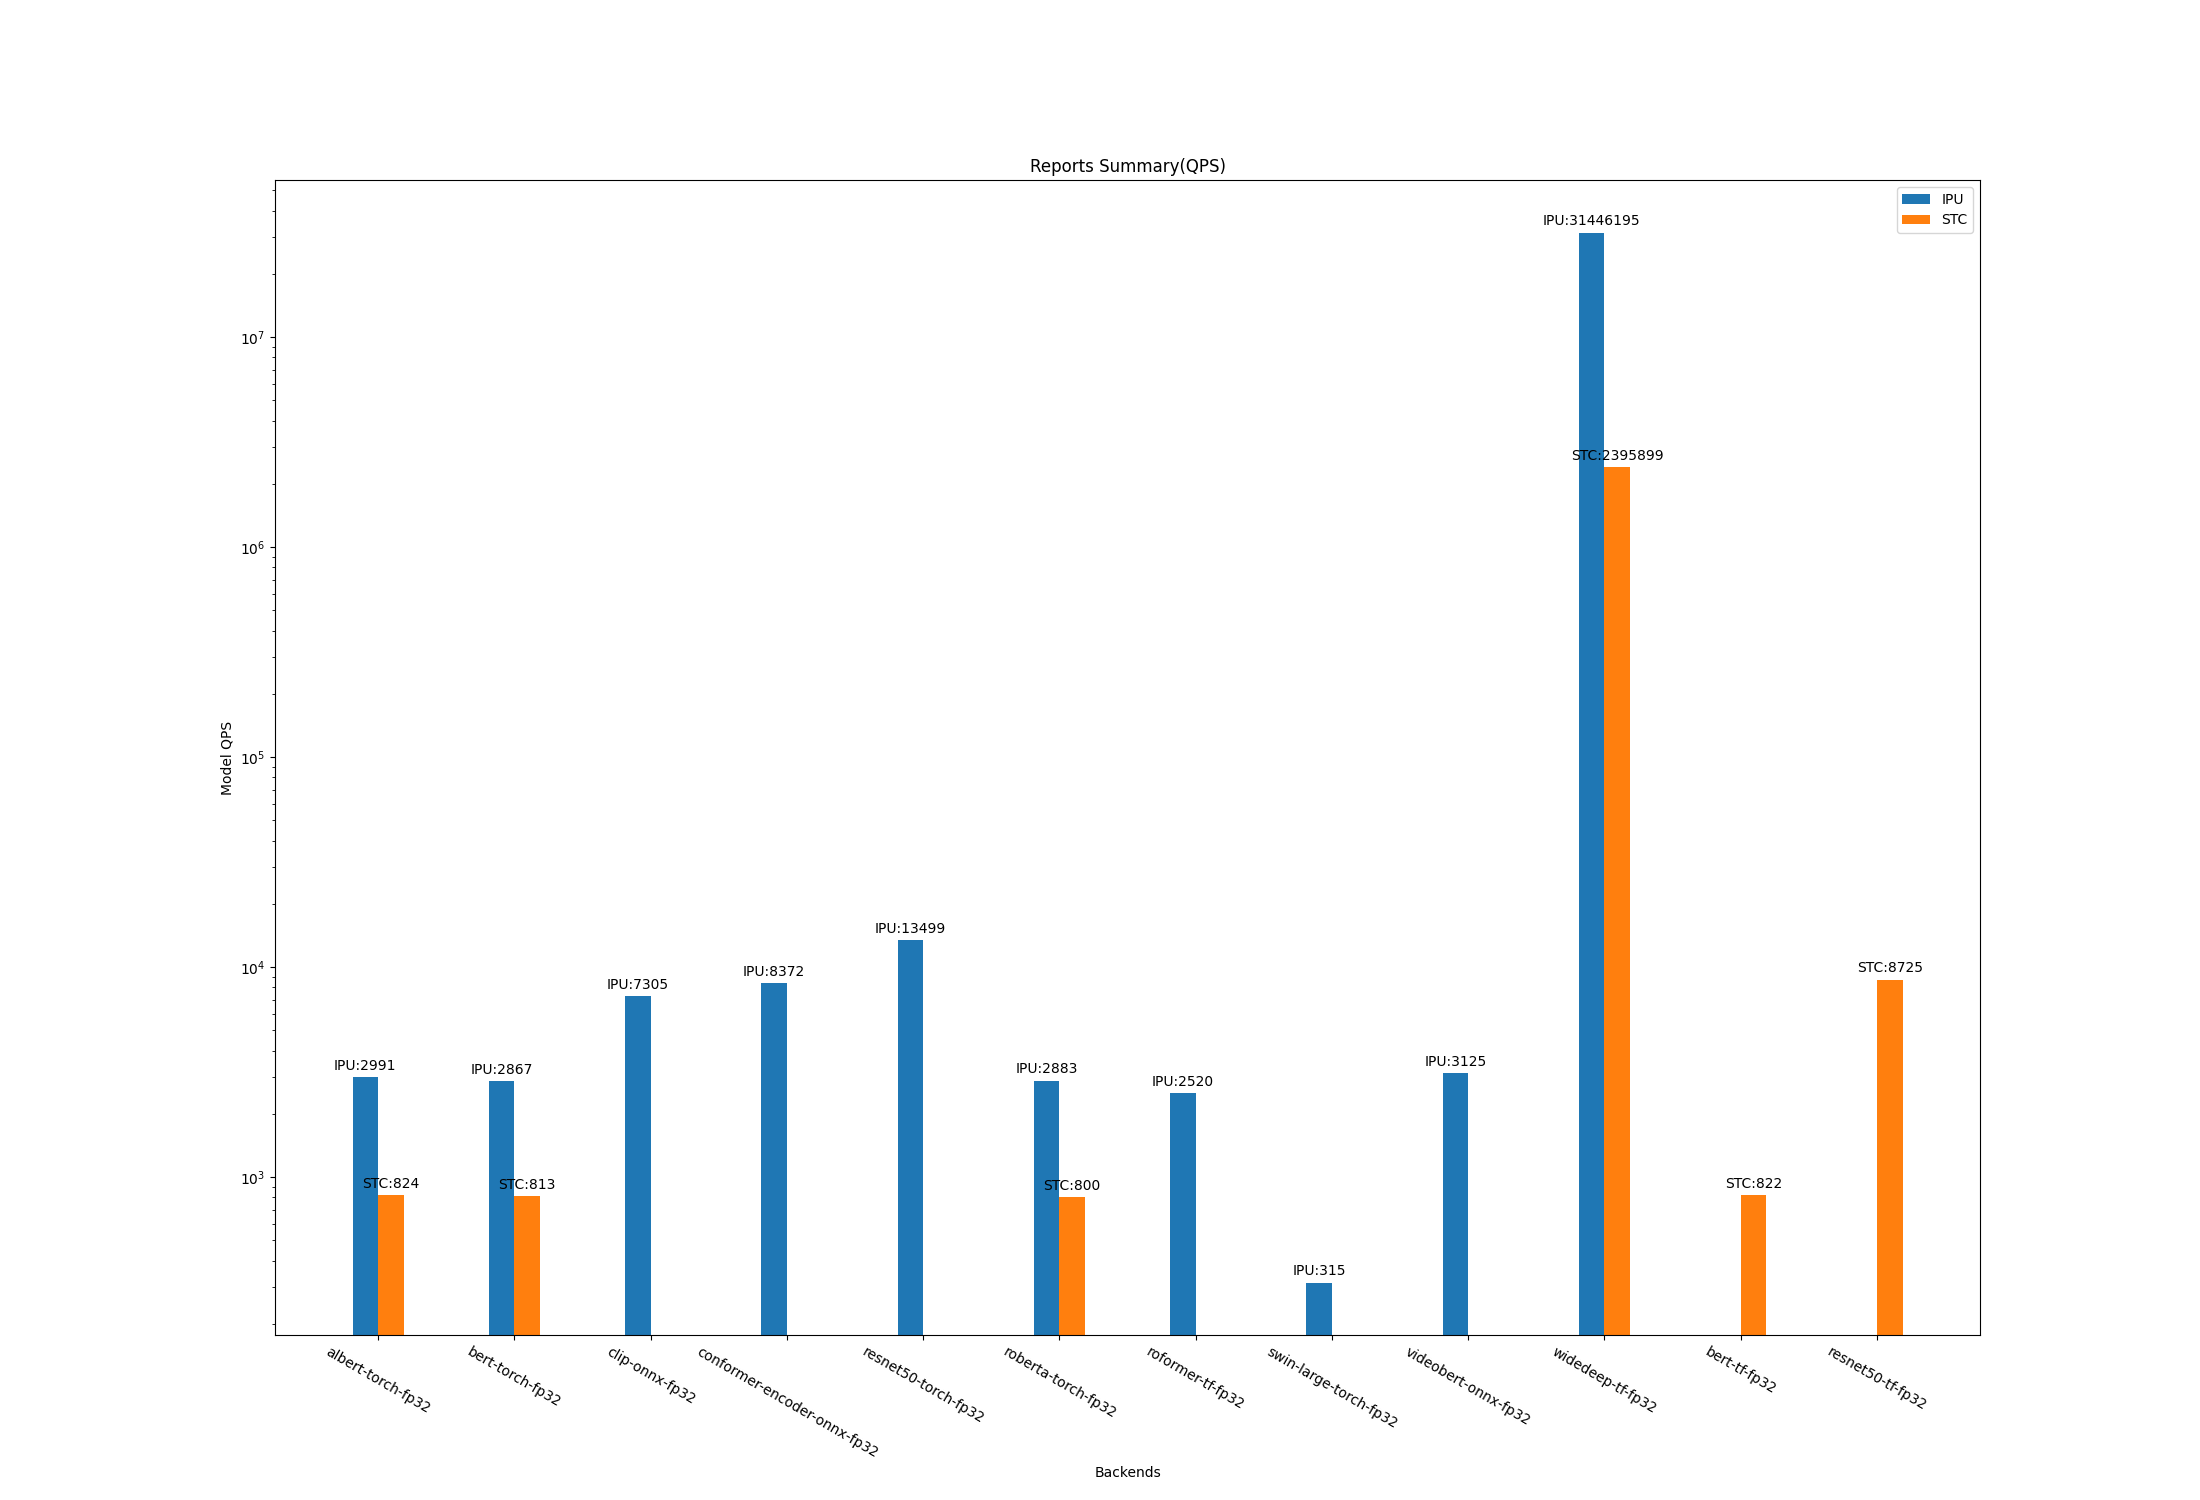
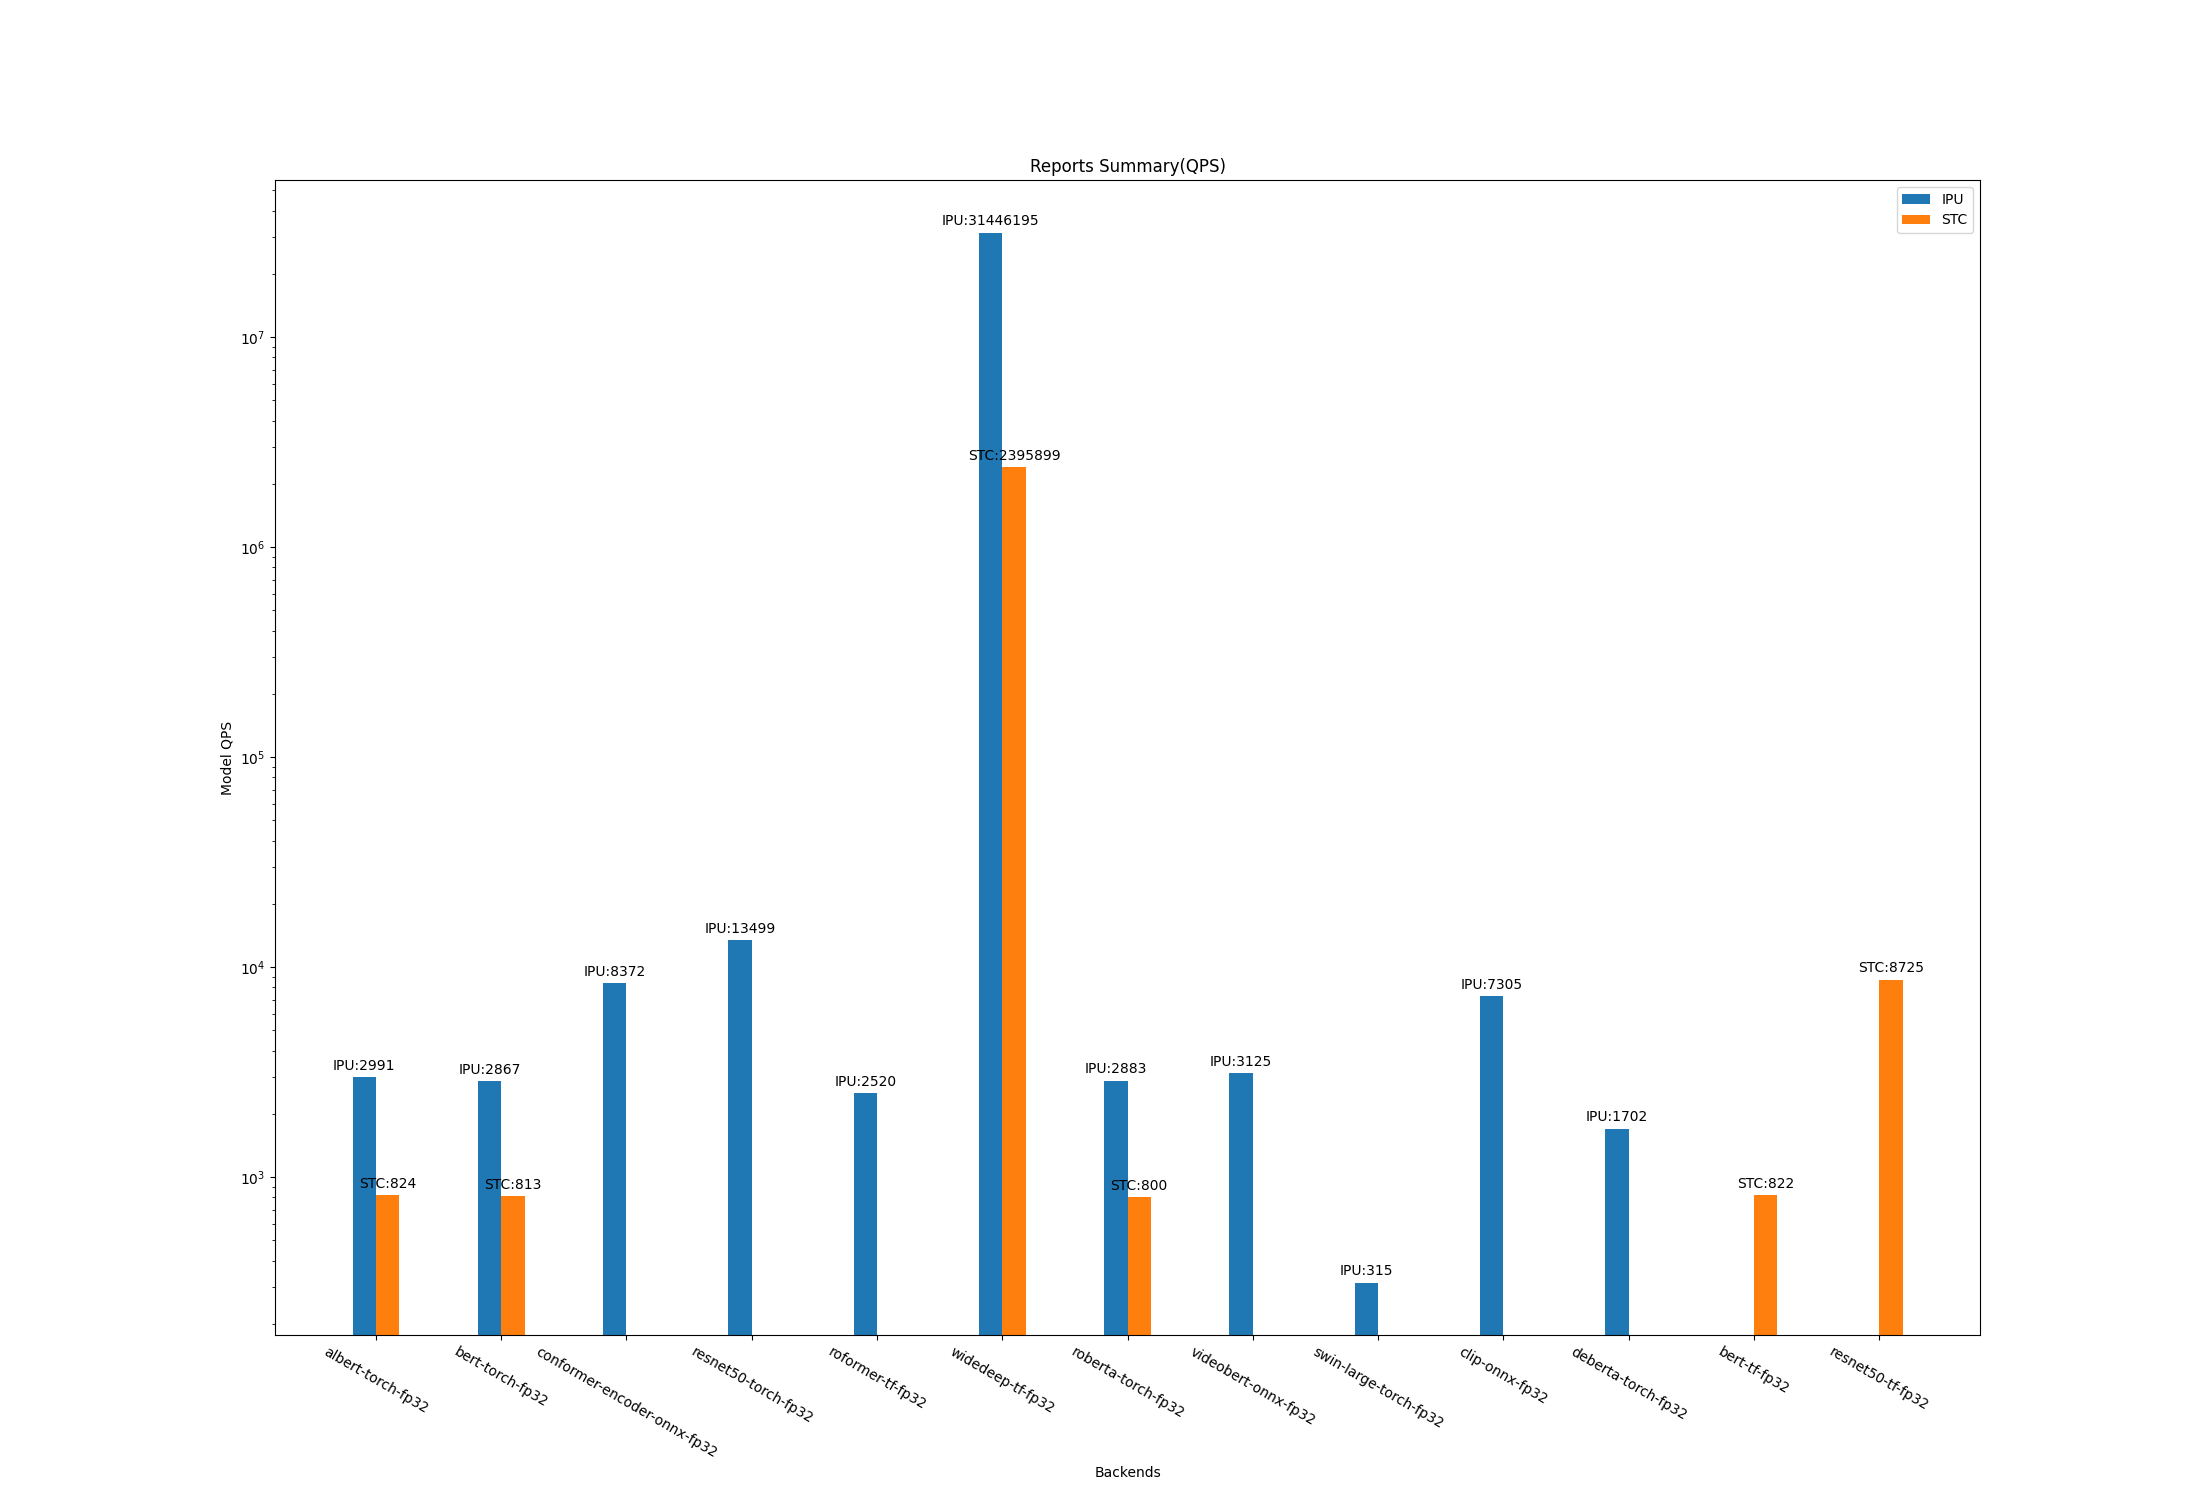
[GraphCore]  IPU support pack deberta
* [new] 1. ipu support pack deberta

* [update] 1. update reports_summary.png

* [update] 1. fix order in ipu's readme

* [update] 1. use custom pass to for pack deberta model conversion

* [update] 1. update results

* [revert] 1. revert change on perf_engine

* [fix] 1. fix deberta's data percentage

* [fix] 1. fix ipu results

diff --git a/byte_mlperf/backends/IPU/passes/deberta_pack.py b/byte_mlperf/backends/IPU/passes/deberta_pack.py
@@ -1,0 +1,181 @@
+# Copyright (c) 2023 Graphcore Ltd. All rights reserved.
+import onnx
+from poprt import Pass
+from poprt.passes import register
+from poprt.passes.onnx_helper import clean_info, get_dtype, topological_sort
+from poprt.passes.pattern_helper import PatternMatcher
+from poprt.passes.shape_inference import infer_shapes
+
+
+@register("deberta_pack")
+class PackedDeberta(Pass):
+    @staticmethod
+    def _find(items, search_func, return_all=False):
+        results = []
+        for i, item in enumerate(items):
+            if search_func(item):
+                results.append((i, item))
+                if not return_all:
+                    break
+        return results if return_all else (-1, None) if not results else results[0]
+
+    def __init__(self):
+        super().__init__()
+
+    def _modify_mask_before_mul_to_input(self, model):
+        pattern = ["s:0->Unsqueeze:Unsqueeze->Cast:Cast->Mul:Mul->e:5"]
+        pattern_matcher = PatternMatcher(pattern)
+        ops = pattern_matcher.next_pattern(model.graph)
+        if ops:
+            Cast = onnx.helper.make_node(
+                "Cast",
+                name="{}_Cast".format(ops["Unsqueeze"].node.name),
+                inputs=[ops["Unsqueeze"].node.input[0]],
+                outputs=["{}_Cast:0".format(ops["Unsqueeze"].node.name)],
+                to=onnx.TensorProto.BOOL,
+            )
+            ops["Unsqueeze"].node.input[0] = Cast.output[0]
+            model.graph.node.insert(ops["Unsqueeze"].index, Cast)
+        return model
+
+    def _modify_attentionmask(self, model):
+        pattern = [
+            "s:0->Reshape:Reshape->Squeeze:Squeeze->Unsqueeze:Unsqueeze->Mul:Mul->Cast:Cast->Not:Not->e:1",
+            "     Reshape:Reshape                                      ->Mul:Mul",
+        ]
+        pattern_matcher = PatternMatcher(pattern)
+        ops = pattern_matcher.next_pattern(model.graph)
+        if ops:
+            input = ops["Reshape"].node.input[0]
+            for node in [
+                ops[key].node
+                for key in ["Reshape", "Squeeze", "Unsqueeze", "Mul", "Cast", "Not"]
+            ]:
+                model.graph.node.remove(node)
+        else:
+            return model
+
+        pattern = [
+            "s:0         ->WhereV2:WhereV2_1->Softmax:Softmax->WhereV2:WhereV2_2->MatMul:MatMul->e:1",
+            "s:2->Add:Add->WhereV2:WhereV2_1",
+        ]
+        pattern_matcher = PatternMatcher(pattern)
+        ops = pattern_matcher.next_pattern(model.graph)
+        AttentionMask, AttentionMaskNot = None, None
+        while ops:
+            if AttentionMask is None:
+                dtype = get_dtype(model.graph, ops["Add"].node.output[0])
+                kwargs = {
+                    "dataType": "FLOAT"
+                    if dtype == onnx.TensorProto.FLOAT
+                    else "FLOAT16"
+                }
+                AttentionMask = onnx.helper.make_node(
+                    "AttentionMask",
+                    name="AttentionMask",
+                    inputs=[input, ops["Add"].node.output[0]],
+                    outputs=["{}_AttentionMask".format(ops["Add"].node.output[0])],
+                    domain="ai.graphcore",
+                    **kwargs,
+                )
+                Cast = onnx.helper.make_node(
+                    "Cast",
+                    name="{}_Cast".format(AttentionMask.name),
+                    inputs=[AttentionMask.output[0]],
+                    outputs=["{}_Cast:0".format(AttentionMask.name)],
+                    to=onnx.TensorProto.BOOL,
+                )
+                Not = onnx.helper.make_node(
+                    "Not",
+                    name="{}_Not".format(Cast.name),
+                    inputs=[Cast.output[0]],
+                    outputs=["{}_Not:0".format(Cast.name)],
+                )
+                AttentionMaskNot = onnx.helper.make_node(
+                    "Cast",
+                    name="{}_Cast".format(Not.name),
+                    inputs=[Not.output[0]],
+                    outputs=["{}_Cast:0".format(Not.name)],
+                    to=onnx.TensorProto.FLOAT16,
+                )
+                model.graph.node.insert(ops["Softmax"].index, AttentionMaskNot)
+                model.graph.node.insert(ops["Softmax"].index, Not)
+                model.graph.node.insert(ops["Softmax"].index, Cast)
+                model.graph.node.insert(ops["Softmax"].index, AttentionMask)
+            Add = onnx.helper.make_node(
+                "Add",
+                name="{}_Add".format(ops["Add"].node.output[0]),
+                inputs=[AttentionMask.output[0], ops["Add"].node.output[0]],
+                outputs=["{}_Add:0".format(ops["Add"].node.output[0])],
+            )
+            ops["Softmax"].node.input[0] = Add.output[0]
+            Mul = onnx.helper.make_node(
+                "Mul",
+                name="{}_Mul".format(ops["Softmax"].node.output[0]),
+                inputs=[AttentionMaskNot.output[0], ops["Softmax"].node.output[0]],
+                outputs=["{}_Mul".format(ops["Softmax"].node.output[0])],
+            )
+            ops["MatMul"].node.input[0] = Mul.output[0]
+            softmax_index, _ = self._find(
+                model.graph.node, lambda n: n.name == ops["Softmax"].node.name
+            )
+            model.graph.node.insert(softmax_index + 1, Mul)
+            model.graph.node.insert(softmax_index, Add)
+            for key in ("WhereV2_1", "WhereV2_2"):
+                model.graph.node.remove(ops[key].node)
+            ops = pattern_matcher.next_pattern(model.graph)
+
+        return model
+
+    def _add_unpack(self, model):
+        max_valid_num, segment_max_size, segment_num = 2 * 10, 384, 1
+        pattern = [
+            "s:0->Reshape:1->MatMul:2->Add:3->Split:4->e:5",
+        ]
+        pattern_matcher = PatternMatcher(pattern)
+        ops = pattern_matcher.next_pattern(model.graph)
+
+        if ops:
+            unpack_info = onnx.helper.make_tensor_value_info(
+                "unpack_info",
+                onnx.TensorProto.INT32,
+                (max_valid_num, segment_num),
+            )
+            model.graph.input.append(unpack_info)
+
+            unpack_attributes = {
+                "max_valid_num": max_valid_num,
+                "segment_max_size": [segment_max_size],
+            }
+            Unpack = onnx.helper.make_node(
+                "Unpack",
+                name="Unpack",
+                inputs=[ops["1"].node.output[0], unpack_info.name],
+                outputs=["{}_Unpack:0".format(ops["1"].node.output[0])],
+                domain="ai.graphcore",
+                **unpack_attributes,
+            )
+            ops["2"].node.input[0] = Unpack.output[0]
+            model.graph.node.insert(ops["2"].index, Unpack)
+        return model
+
+    def _add_pack(self, model):
+        model = self._modify_mask_before_mul_to_input(model)
+        model = self._modify_attentionmask(model)
+        sorted_nodes = topological_sort(model.graph)
+        model.graph.ClearField("node")
+        for node in sorted_nodes:
+            model.graph.node.append(node)
+        return model
+
+    def __call__(self, model: onnx.ModelProto) -> onnx.ModelProto:
+        model = self._add_pack(model)
+        model = infer_shapes(clean_info(model))
+
+        model = self._add_unpack(model)
+        model = infer_shapes(clean_info(model))
+        return model
+
+    def run(self, onnx_model: onnx.ModelProto) -> onnx.ModelProto:
+        onnx_model.CopyFrom(self.traverse_graph(onnx_model.graph, self.__call__))
+        return onnx_model

diff --git a/byte_mlperf/backends/IPU/compile_backend_ipu.py b/byte_mlperf/backends/IPU/compile_backend_ipu.py
@@ -27,6 +27,7 @@ from poprt.converter import Converter
 from tools import saved_to_onnx, torch_to_onnx
 
 from byte_mlperf.backends import compile_backend
+import byte_mlperf.backends.IPU.passes.deberta_pack
 
 log = logging.getLogger("CompileBackendIPU")
 
@@ -163,6 +164,9 @@ class CompileBackendIPU(compile_backend.CompileBackend):
             "input_type": config["model_info"]["input_type"].split(","),
             "max_batch_size": config["model_info"]["max_batch_size"],
             "compile_status": "success",
+            "optimizations": {},
+            "instance_count": 1,
+            "device_count": 1,
             "sg_percent": 100,
             "segments": [
                 {
@@ -341,9 +345,12 @@ class CompileBackendIPU(compile_backend.CompileBackend):
 
         model_info["inputs"] += ",position_ids"
         model_info["input_type"] += ",LONG"
-        model_info["input_shape"]["position_ids"] = [1, 384]
         model_info["model_path"] = str(model_path)
 
+        if "deberta" in model_info["model"]:
+            model_info["input_shape"]["unpack_info"] = [1, 1]
+        else:
+            model_info["input_shape"]["position_ids"] = [1, 384]
         self.model_info = model_info
 
         if self.model_info["model"] == "roberta-torch-fp32":

diff --git a/byte_mlperf/backends/IPU/runtime_backend_ipu.py b/byte_mlperf/backends/IPU/runtime_backend_ipu.py
@@ -81,8 +81,12 @@ class RuntimeBackendIPU(runtime_backend.RuntimeBackend):
                 ), "you must specify all input names for pack runner for auto padding removal."
 
                 mask_name = self.pack_config["mask_name"]
+
+                if self.configs["model"] == "deberta-torch-fp32":
+                    config.enable_input_single_row_mode(mask_name, "unpack_info", 1)
+                else:
+                    config.enable_input_single_row_mode(mask_name)
                 config.dynamic_input_name = self.pack_config["dynamic_input_name"]
-                config.enable_input_single_row_mode(mask_name)
                 config.timeout_microseconds = self.pack_config.get(
                     "timeout_microseconds", 15000
                 )
@@ -162,3 +166,6 @@ class RuntimeBackendIPU(runtime_backend.RuntimeBackend):
                 inputs["position_ids"] = np.arange(seq_len, dtype=np.int32) + 1
             elif self.configs["model"] in ("albert-torch-fp32", "bert-torch-fp32"):
                 inputs["position_ids"] = np.arange(seq_len, dtype=np.int32)
+            elif self.configs["model"] == "deberta-torch-fp32":
+                inputs["unpack_info"] = np.zeros(1, dtype=np.int32)
+                inputs.pop("token_type_ids")

diff --git a/byte_mlperf/backends/IPU/README.md b/byte_mlperf/backends/IPU/README.md
@@ -45,6 +45,7 @@ Docker images are provided at [graphcorecn/poprt](https://hub.docker.com/r/graph
 | bert-torch-fp32 | FP16 | 2,867 | Open Squad 1.1 | F1 Score | 85.85797 | [report](../../reports/IPU/bert-torch-fp32/) |
 | clip-onnx-fp32 | FP16 | 7,305 | Fake Dataset | Mean Diff | 0.00426 | [report](../../reports/IPU/clip-onnx-fp32/) |
 | conformer-encoder-onnx-fp32 | FP16 | 8,372 | Fake Dataset | Mean Diff | 0.00161 | [report](../../reports/IPU/conformer-encoder-onnx-fp32/) |
+| deberta-torch-fp32 | FP16 | 1,702 | Open Squad 1.1 | F1 Score | 81.24629 | [report](../../reports/IPU/deberta-torch-fp32/) |
 | resnet50-torch-fp32 | FP16 | 13,499 | Open Imagenet | Top-1 | 0.76963 | [report](../../reports/IPU/resnet50-torch-fp32/) |
 | roberta-torch-fp32 | FP16 | 2,883 | Open Squad 1.1 | F1 Score | 83.1606 | [report](../../reports/IPU/roberta-torch-fp32/) |
 | roformer-tf-fp32 | FP16 | 2,520 | OPEN_CAIL2019 | Top-1 | 0.64323 | [report](../../reports/IPU/roformer-tf-fp32/) |

diff --git a/byte_mlperf/backends/IPU/README.zh_CN.md b/byte_mlperf/backends/IPU/README.zh_CN.md
@@ -47,6 +47,7 @@ PopRT 提供了易于集成的 Python 和 C++ API，ByteMLPerf 模型在 IPU 上
 | bert-torch-fp32 | FP16 | 2,867 | Open Squad 1.1 | F1 Score | 85.85797 | [report](../../reports/IPU/bert-torch-fp32/) |
 | clip-onnx-fp32 | FP16 | 7,305 | Fake Dataset | Mean Diff | 0.00426 | [report](../../reports/IPU/clip-onnx-fp32/) |
 | conformer-encoder-onnx-fp32 | FP16 | 8,372 | Fake Dataset | Mean Diff | 0.00161 | [report](../../reports/IPU/conformer-encoder-onnx-fp32/) |
+| deberta-torch-fp32 | FP16 | 1,702 | Open Squad 1.1 | F1 Score | 81.24629 | [report](../../reports/IPU/deberta-torch-fp32/) |
 | resnet50-torch-fp32 | FP16 | 13,499 | Open Imagenet | Top-1 | 0.76963 | [report](../../reports/IPU/resnet50-torch-fp32/) |
 | roberta-torch-fp32 | FP16 | 2,883 | Open Squad 1.1 | F1 Score | 83.1606 | [report](../../reports/IPU/roberta-torch-fp32/) |
 | roformer-tf-fp32 | FP16 | 2,520 | OPEN_CAIL2019 | Top-1 | 0.64323 | [report](../../reports/IPU/roformer-tf-fp32/) |
